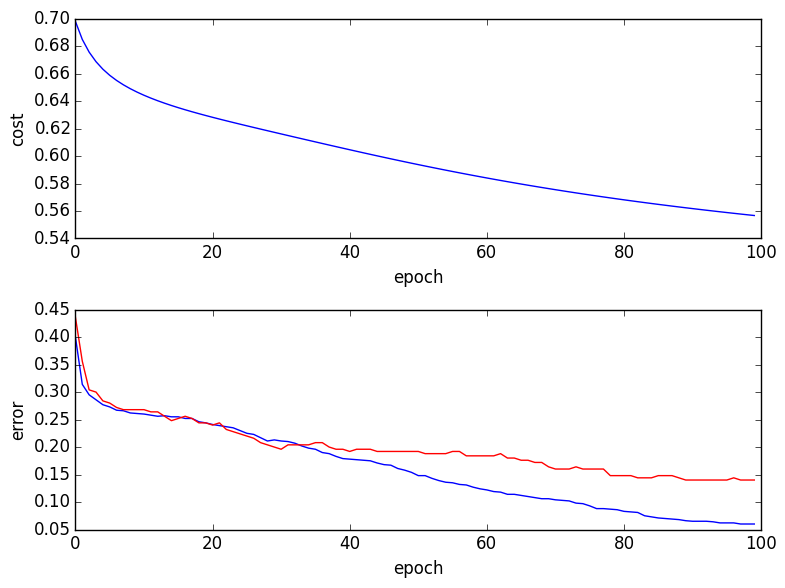
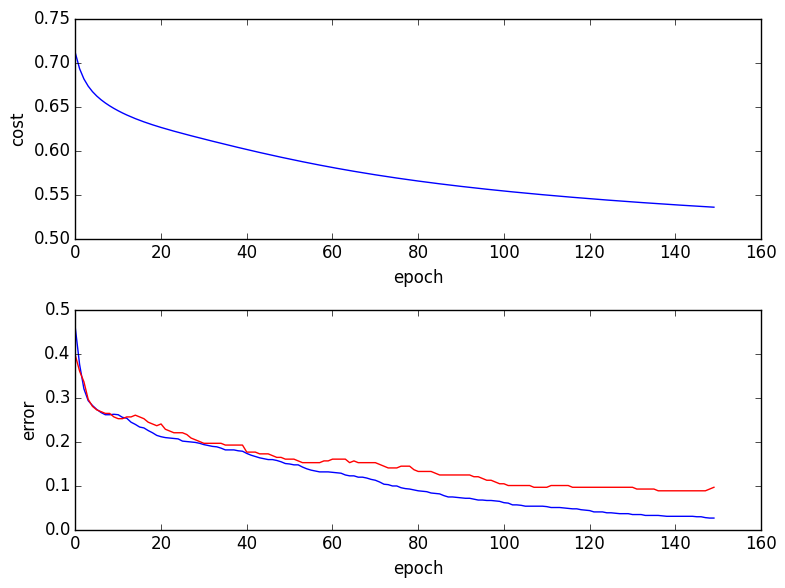
let batch run for longer

diff --git a/nus-nnet-hw2-faces/c_mlp.py b/nus-nnet-hw2-faces/c_mlp.py
@@ -58,8 +58,8 @@ y_proba, h1 = model(X, w_h1, w_o, 0., 0.)
 y_pred = y_proba > 0.5
 
 # -- learning rate is coupled with batch size!
-# batch_size=''; learning_rate=0.05; epochs=100; # batch mode: entire batch
-batch_size=1; learning_rate=0.0005; epochs=35; # sequential mode: single example
+batch_size=''; learning_rate=0.05; epochs=150; # batch mode: entire batch
+# batch_size=1; learning_rate=0.0005; epochs=35; # sequential mode: single example
 # batch_size=20; learning_rate=0.05; epochs=35;# minibatches good for SGD, like sequential
 
 cost = T.mean(T.nnet.binary_crossentropy(py_x, Y))
